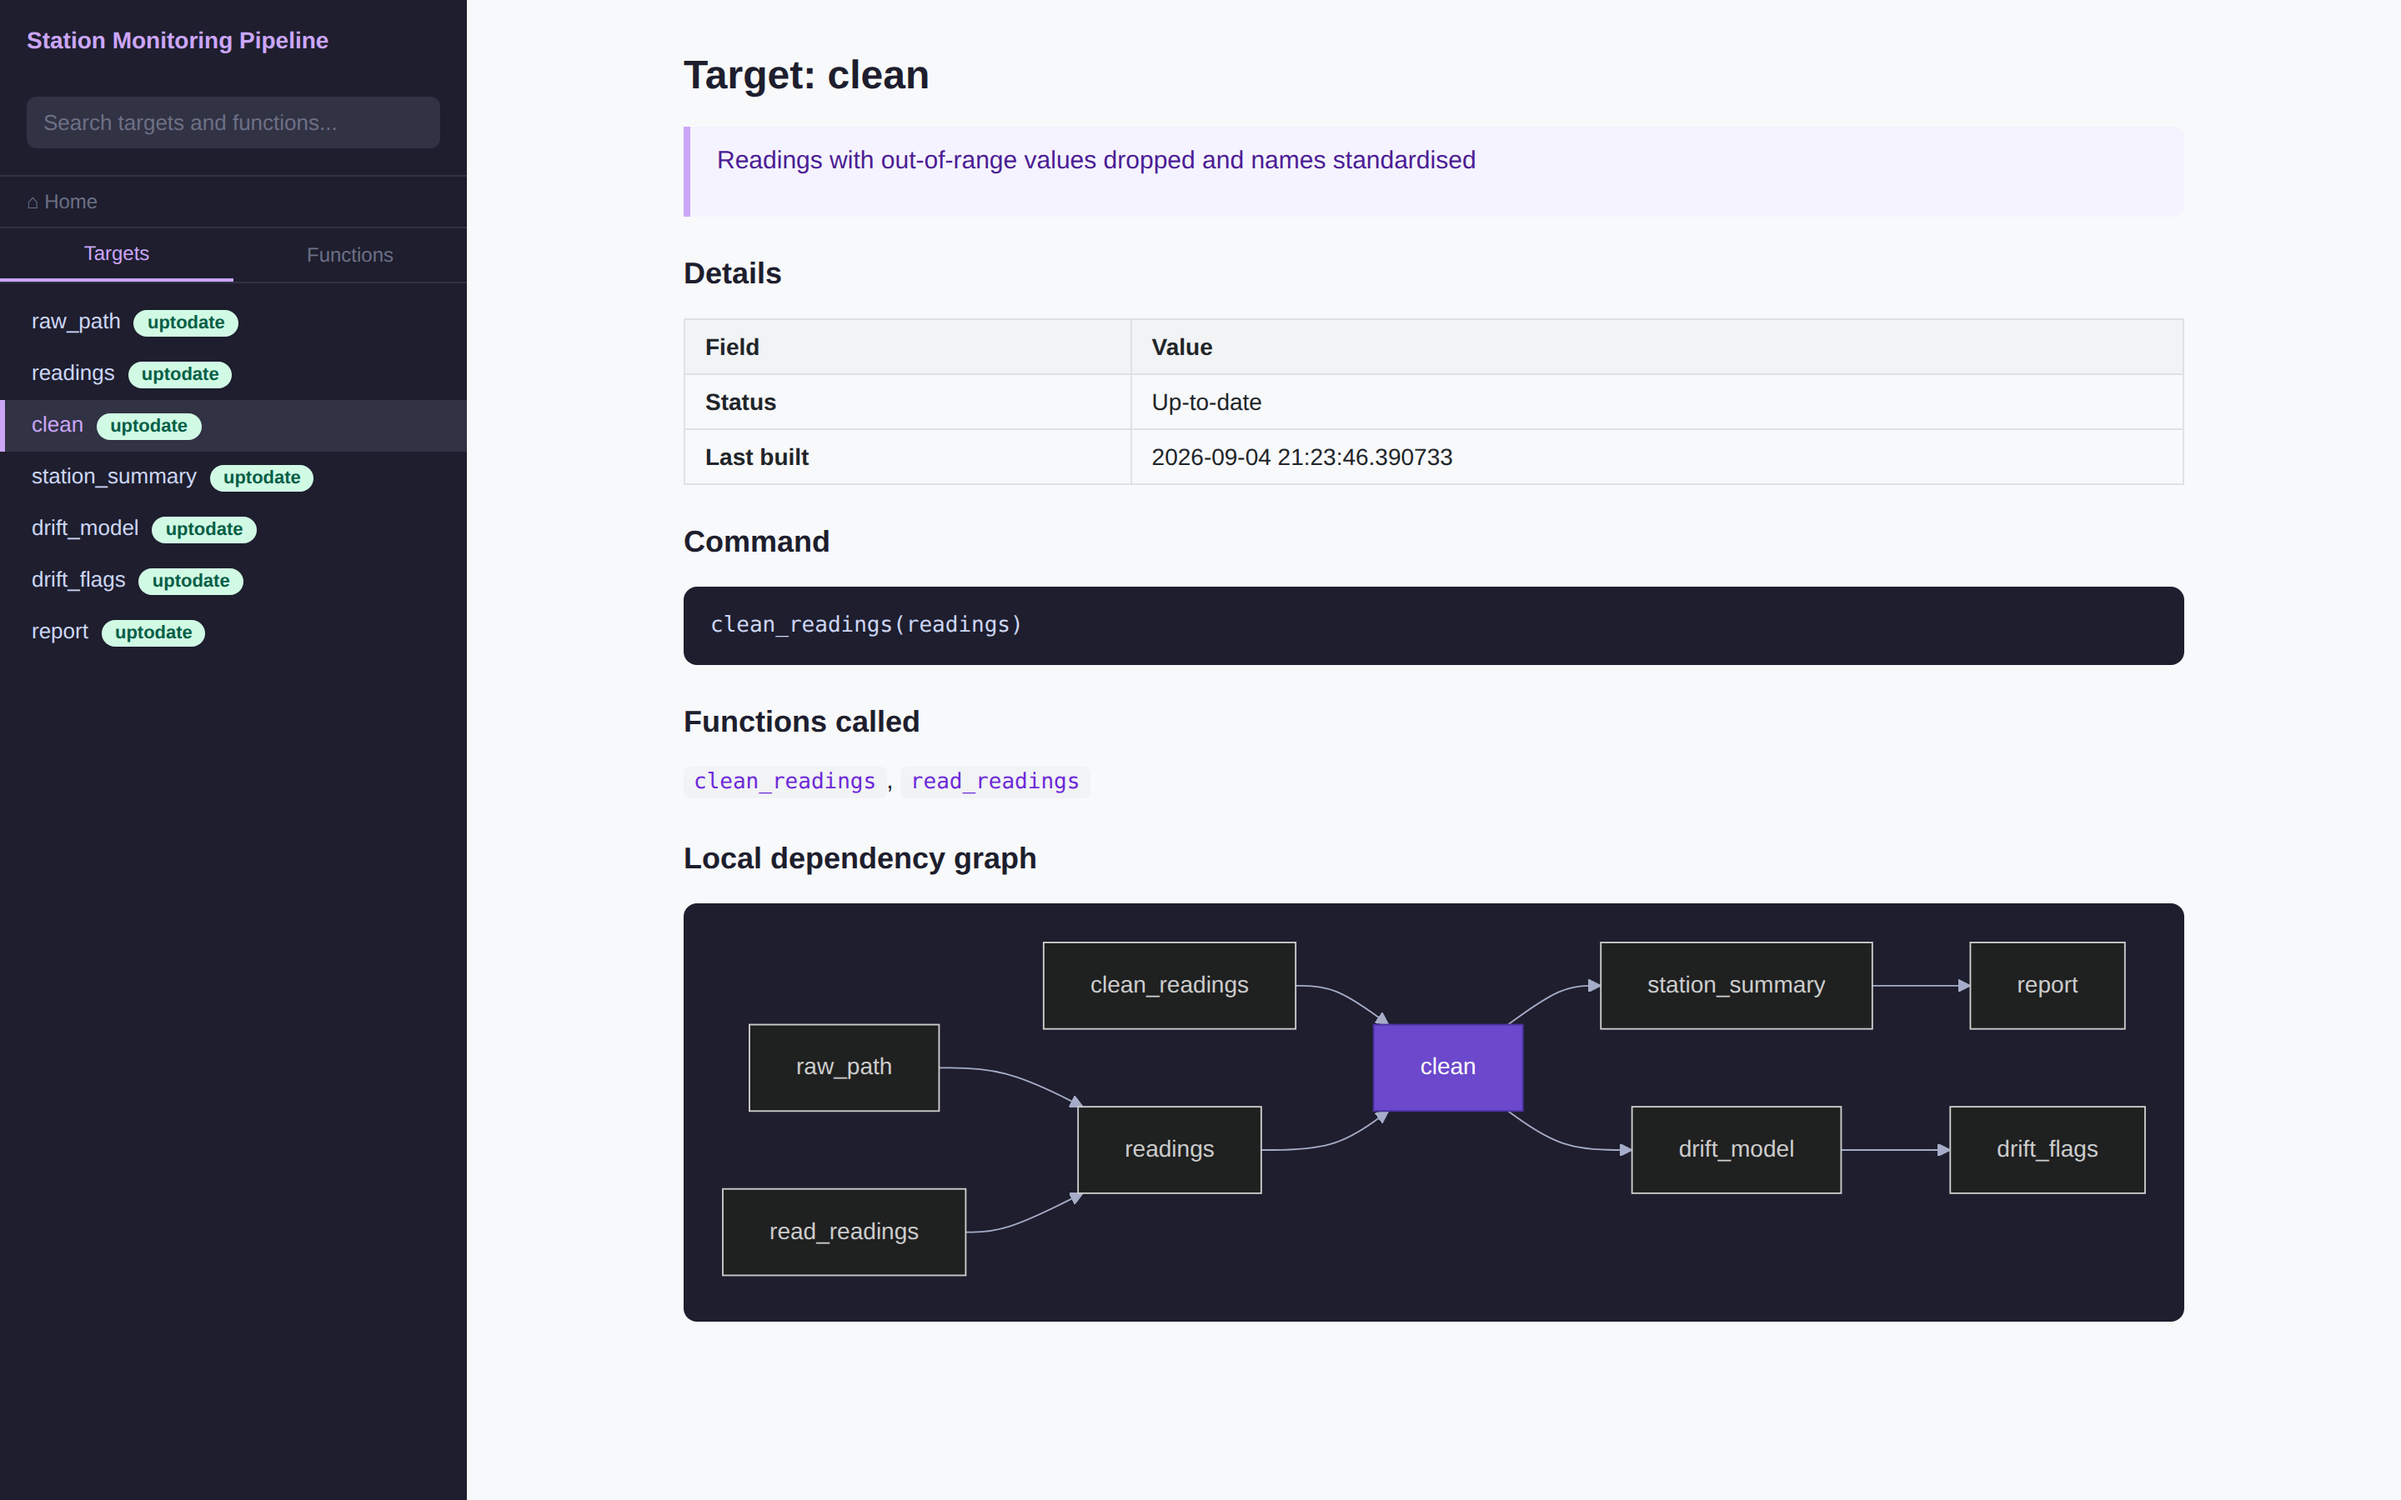
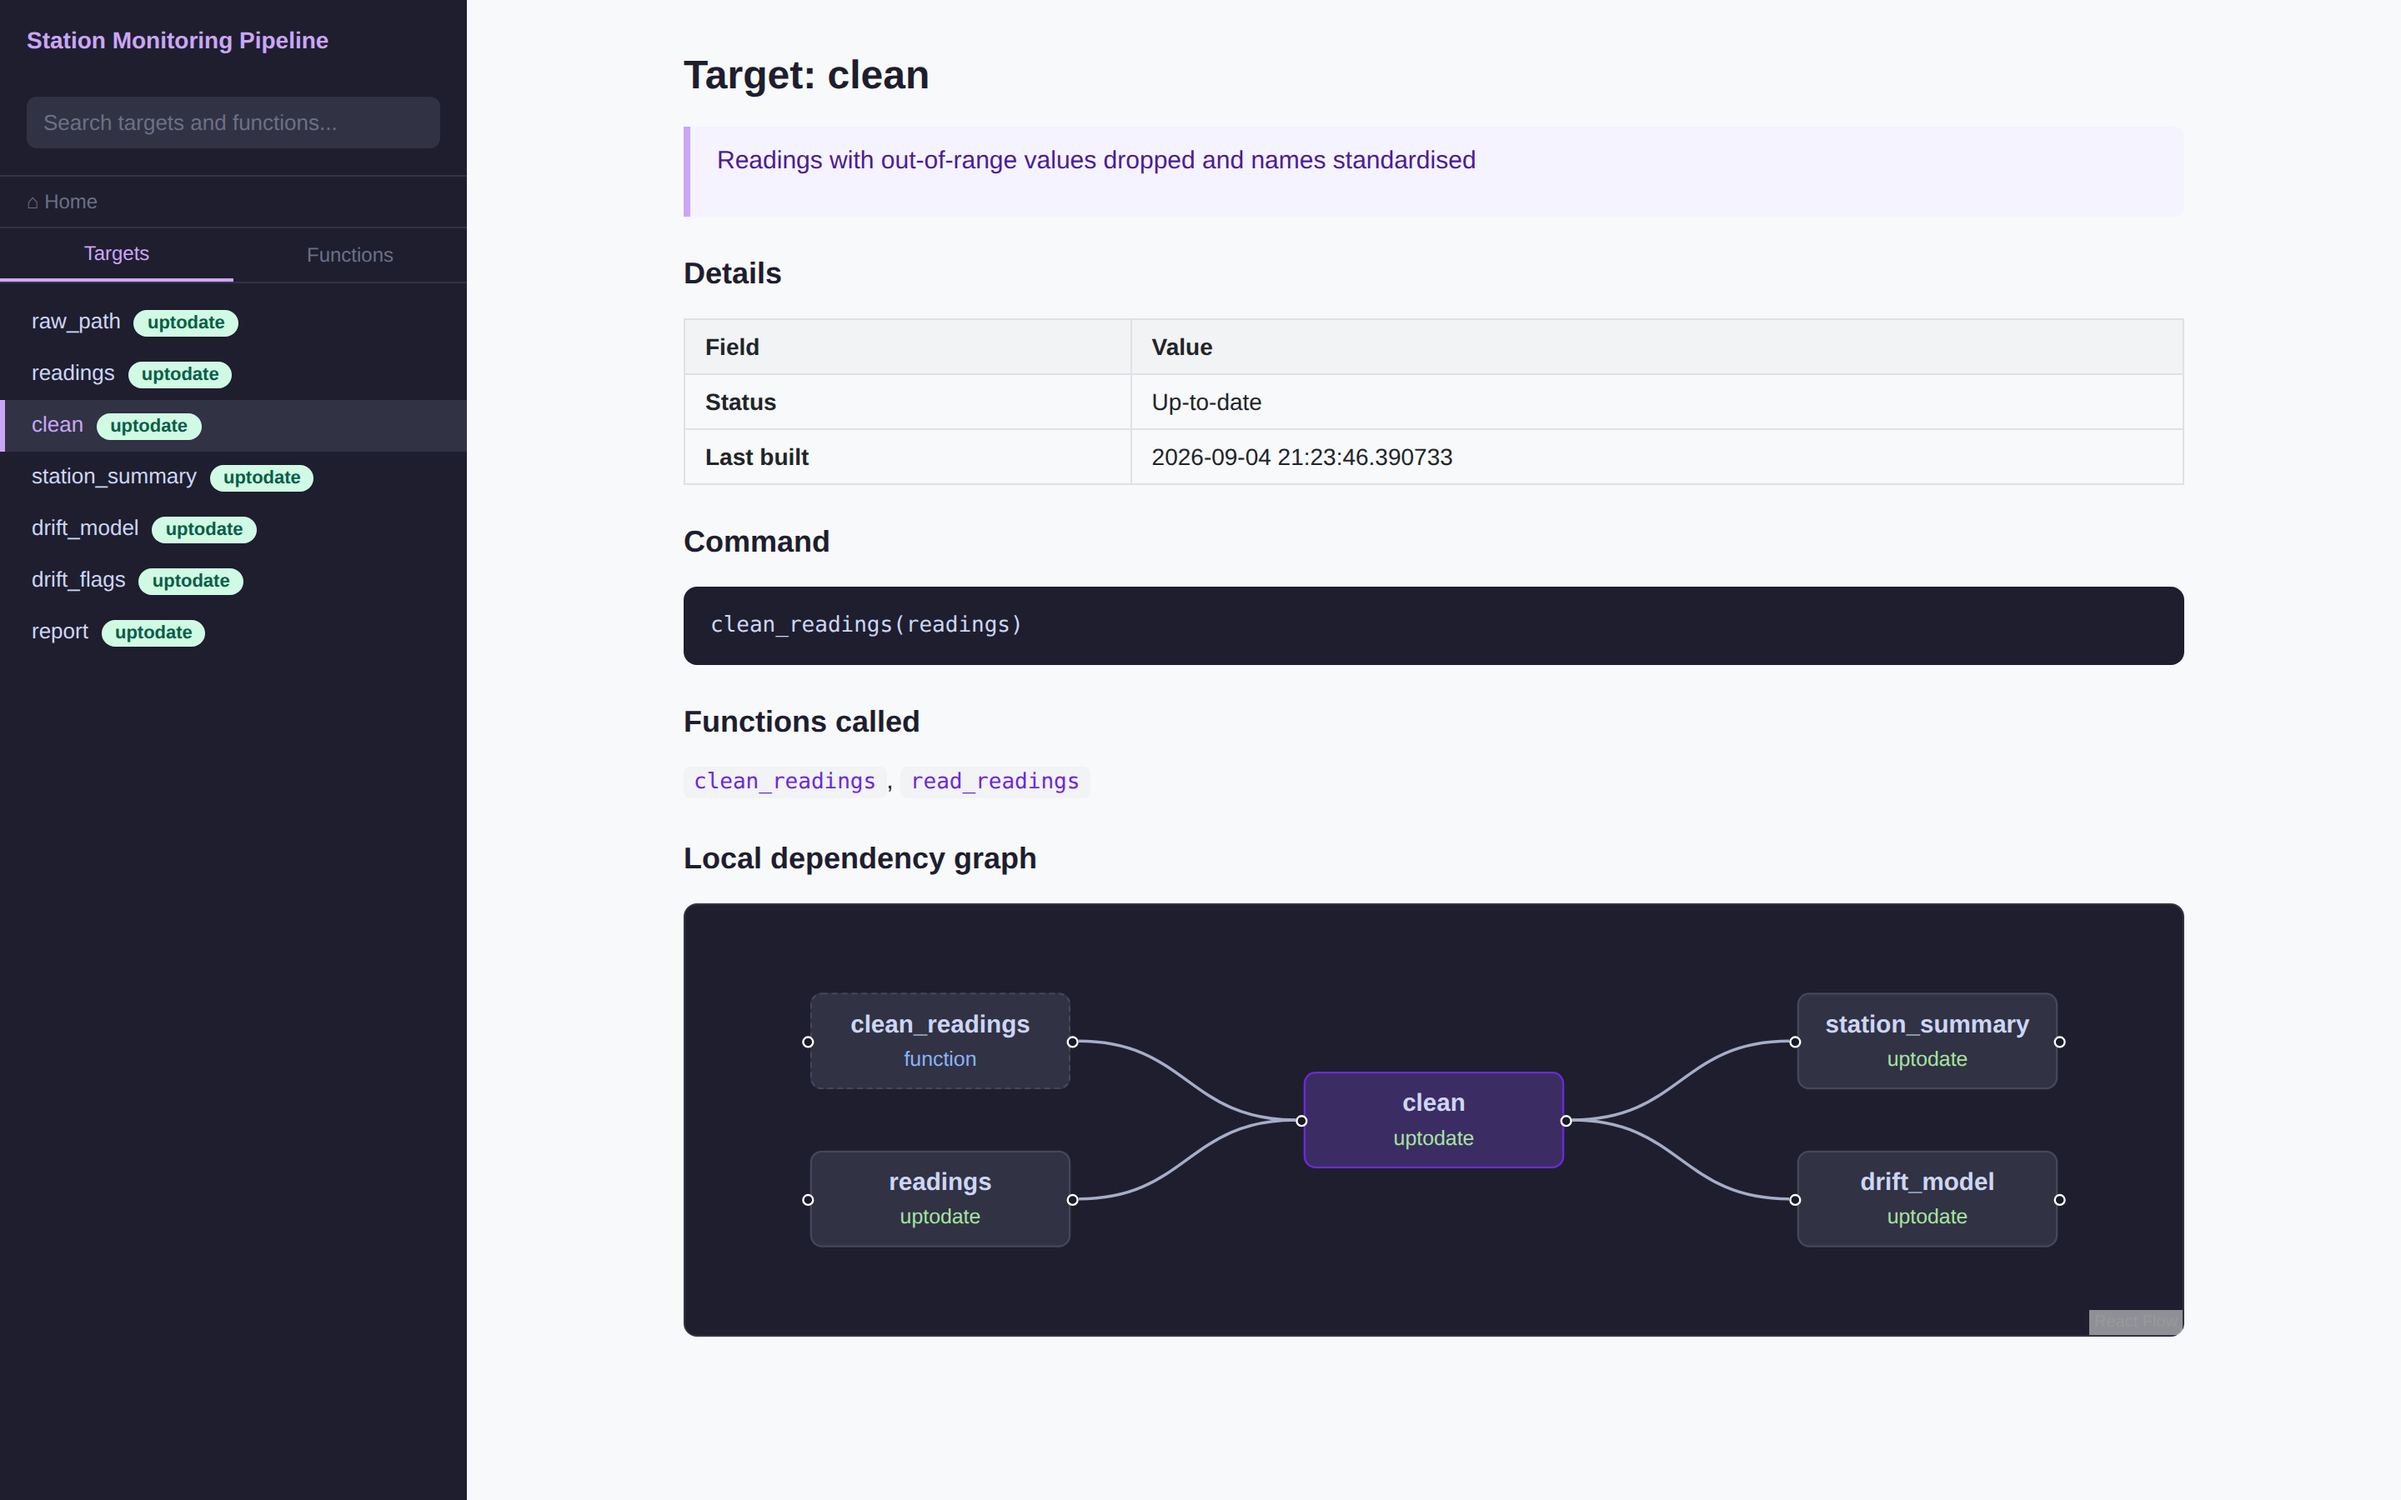
Update README for the React Flow viewer
The README still described the viewer as it was before mermaid was
removed. Four claims were wrong:

- it listed `mermaid` among the CDN libraries, and named jsDelivr as the
  only CDN (React and ReactDOM come from cdnjs)
- it described the per-target dependency graph as a mermaid graph
- nothing mentioned the interactive overview graph, the click-to-inspect
  panel, the show-functions toggle, or hash deep links
- `generate_reactflow_graph()`, `build_dag_graph()` and `dag_layout()`
  were exported but absent from the function reference

Screenshots regenerated from the example pipeline against the current
viewer; viewer-overview.png and viewer-target.png were still showing
mermaid graphs. Added viewer-inspect.png for the detail panel.
viewer-function.png and viewer-search.png re-rendered byte-identical.

Also fixed a stray triple-backtick mid-sentence in the prototypes doc,
which rendered as literal backticks rather than inline code.

Claude-Session: https://claude.ai/code/session_01Hp7TCyu7UMVBB2Yo5hV2gq

diff --git a/README.md b/README.md
@@ -2,7 +2,7 @@
 
 Auto-generate documentation for any [targets](https://docs.ropensci.org/targets/) pipeline. Point tardoc at your project and get structured markdown, a browsable HTML viewer, and — optionally — a full analytics stack with SQL queries, semantic search, git history, code intelligence, and an LLM chat interface.
 
-![The tardoc viewer showing a targets pipeline dependency graph](man/figures/viewer-overview.png)
+![The tardoc viewer showing an interactive targets pipeline dependency graph](man/figures/viewer-overview.png)
 
 <sub>The tier 1 viewer, generated from the runnable example pipeline in [`inst/examples/station-monitoring`](inst/examples/station-monitoring). Nothing here is hand-written — every page, badge and graph comes from `_targets.R` and the roxygen comments in `R/`. See that directory's README to reproduce these screenshots.</sub>
 
@@ -36,7 +36,7 @@ tardoc::document_targets(pkg_name = "My pipeline")
 tardoc::view_tardoc()
 ```
 
-Writes `tardoc/viewer.html` — a single self-contained file that opens in any browser with no server and no R dependencies beyond what `document_targets()` already requires. All pipeline content is inlined into the file; the rendering libraries (`marked`, `mermaid`, `fuse.js`) are loaded from jsDelivr at exact pinned versions with subresource integrity, so the page needs network access on first open and will be served from the browser cache afterwards.
+Writes `tardoc/viewer.html` — a single self-contained file that opens in any browser with no server and no R dependencies beyond what `document_targets()` already requires. All pipeline content is inlined into the file; the rendering libraries (`marked`, `fuse.js`, and React + React Flow for the graph) are loaded from jsDelivr and cdnjs at exact pinned versions with subresource integrity, so the page needs network access on first open and will be served from the browser cache afterwards.
 
 **Output structure:**
 
@@ -57,16 +57,27 @@ my_project/
 
 **What the viewer includes:**
 
+- An interactive pipeline graph on the home page — drag to pan, scroll to zoom, minimap, and a **show functions** toggle that adds the functions each target calls as dashed nodes
+- Click any node to open an inspect panel: description, command, branching pattern, errors, build details, and clickable upstream / downstream neighbours
 - Fuzzy search across targets, functions, descriptions, and commands
-- Per target: R command, build status, last built timestamp, functions called, mermaid local dependency graph
+- Per target: R command, build status, last built timestamp, functions called, and a local dependency graph centred on that target
 - Per function: rendered roxygen docs, full source code
 - Notes panel — content from `notes/` files appears at the bottom of each page
+- Deep links — `viewer.html#targets:clean` opens that page directly, and selecting a page updates the hash
 
 **What a target page looks like:**
 
 ![A target page showing status, command, functions called and a local dependency graph](man/figures/viewer-target.png)
 
-Build status and last-built timestamp come from the `_targets` store; the local graph is centred on the target you are viewing, with its immediate upstream and downstream neighbours.
+Build status and last-built timestamp come from the `_targets` store; the local graph is centred on the target you are viewing, with its immediate upstream and downstream neighbours. Functions appear with a dashed border and a `function` label, and clicking any neighbour navigates to it.
+
+**Clicking a node on the overview graph:**
+
+![The inspect panel open on a target, showing its description, command, build details and neighbours](man/figures/viewer-inspect.png)
+
+The panel shows the target's description and command, its branching `pattern` when it is a dynamic target, any error or warnings, build details (format, repository, iteration, last built, runtime, size), and its neighbours as clickable chips. **Open full page →** navigates the viewer to that target.
+
+The graph is rendered with [React Flow](https://reactflow.dev), not mermaid — see [`docs/visualisation-prototypes.md`](docs/visualisation-prototypes.md) for why, what a node exposes, and where the branching fields come from. The generated `.md` files still carry a `mermaid` fence so they render on GitHub and anywhere else markdown is read; the viewer replaces it with a live graph built from the same data.
 
 **What a function page looks like:**
 
@@ -313,6 +324,18 @@ Opens `wasm_analytics.html` as `file://`. DuckDB WASM from CDN. Data embedded at
 | Argument | Default | Description |
 |---|---|---|
 | `port` | `8765` | MCP server port |
+
+### `generate_reactflow_graph(targets_data, cfg, pkg_name)`
+
+Writes a standalone full-screen `reactflow_graph.html` — the same graph as the
+viewer's, without the surrounding documentation. Not part of a default
+`document_targets()` run.
+
+### `build_dag_graph(targets_data, include_functions = TRUE)` / `dag_layout(nodes, edges)`
+
+The graph data and layout used by the viewer. `build_dag_graph()` returns the
+`{nodes, edges}` list React Flow consumes; `dag_layout()` assigns each node a
+column by longest-path depth. Exported so you can build a graph of your own.
 
 ### `get_fn_docs(fn_name, file)`
 

diff --git a/docs/visualisation-prototypes.md b/docs/visualisation-prototypes.md
@@ -27,7 +27,7 @@ column-level lineage the same way.
 per-node status colouring.
 
 **mermaid is no longer loaded at all.** The per-target pages still carry a
-```mermaid fence, so the generated `.md` files render on GitHub and anywhere
+`mermaid` fence, so the generated `.md` files render on GitHub and anywhere
 else markdown is read — that portability was worth keeping. The viewer ignores
 the fence's contents and replaces it with a React Flow graph built from the same
 data:
